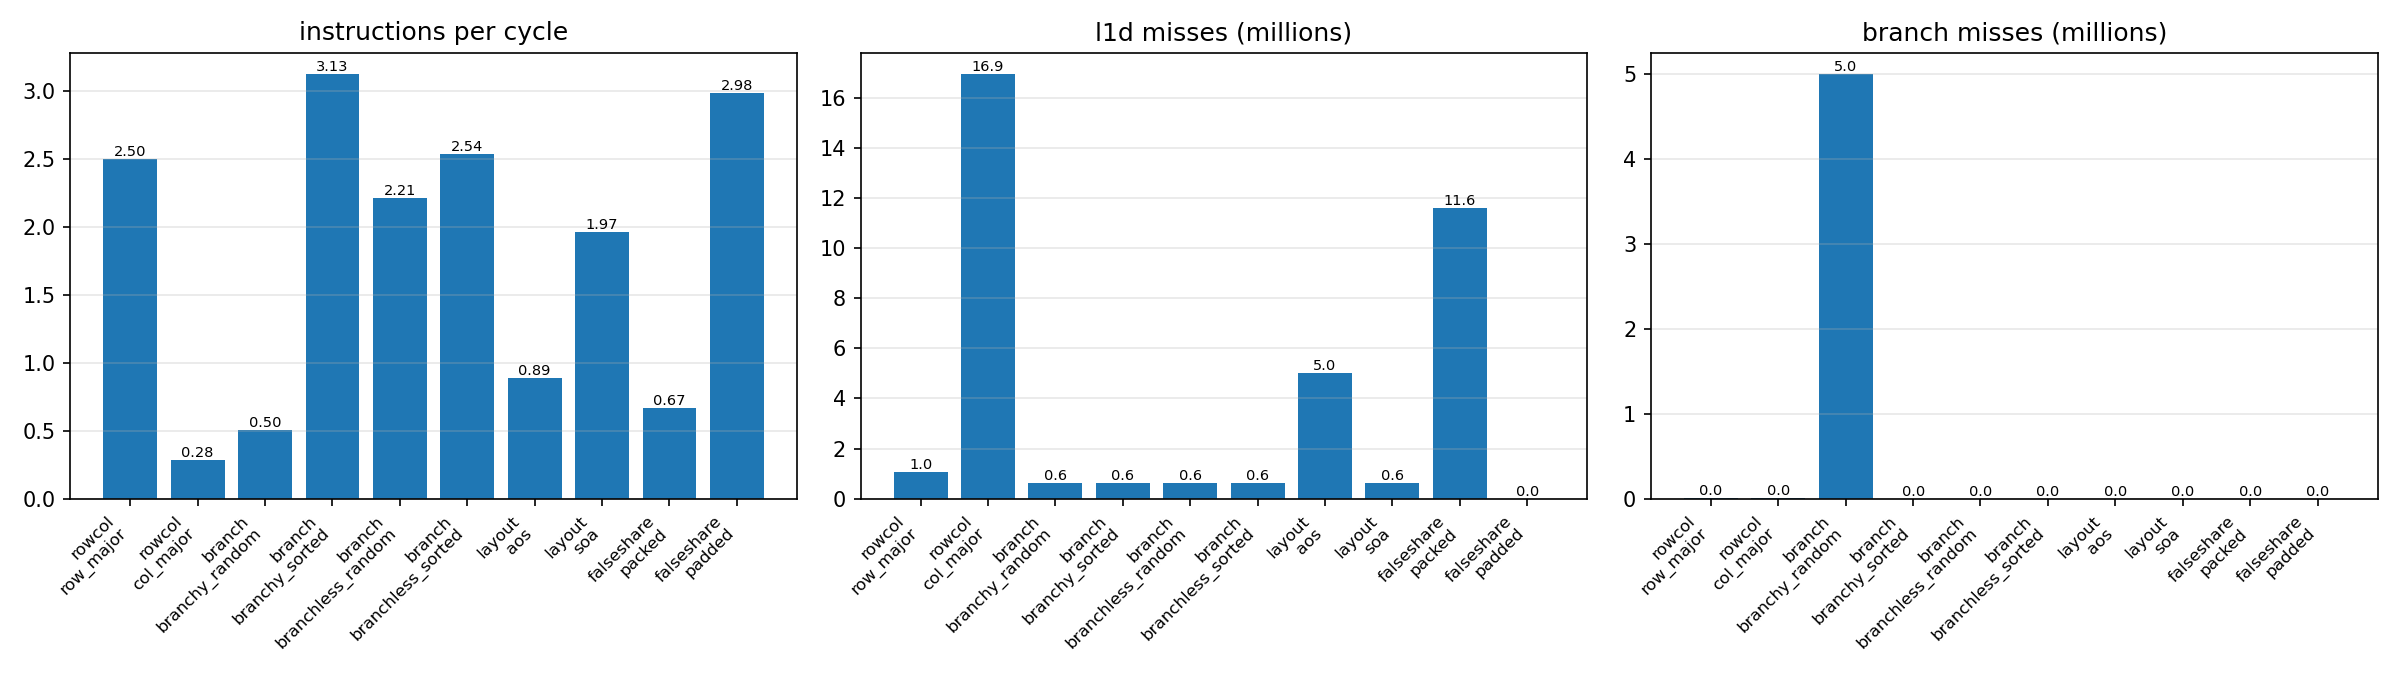
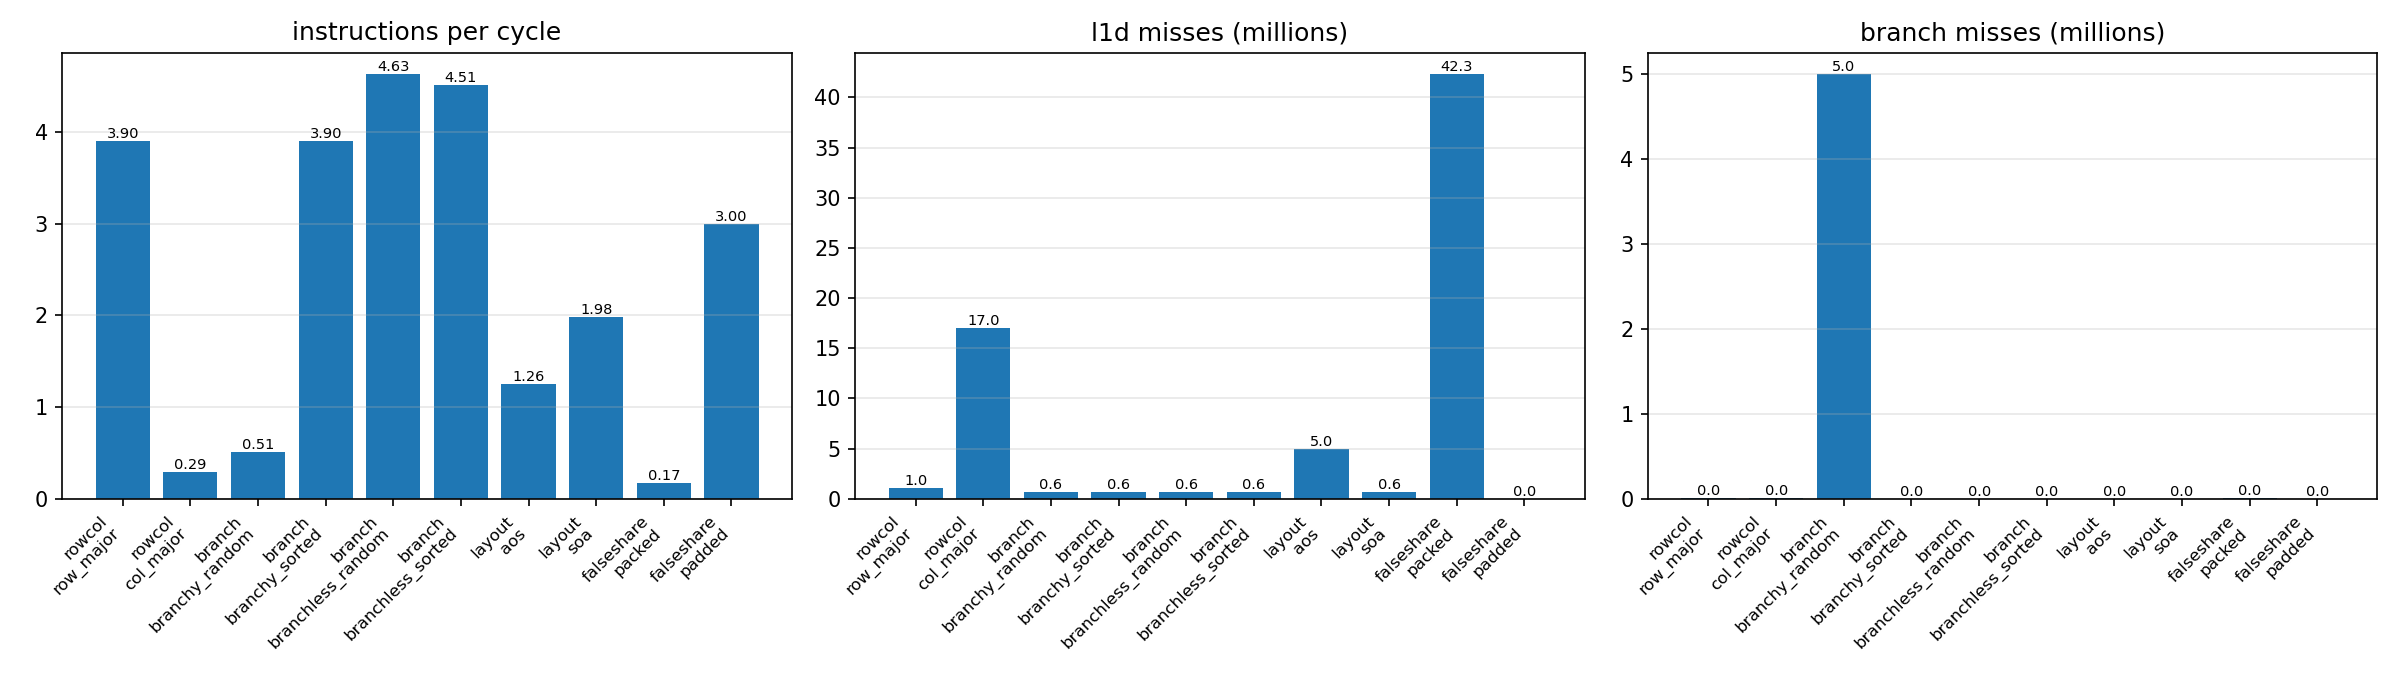
final results with ram at 3600, compiler experiment writeup

diff --git a/include/cpuprobe/perf_counters.hpp b/include/cpuprobe/perf_counters.hpp
@@ -9,7 +9,7 @@ namespace cpuprobe {
 enum class Event {
     Cycles,
     Instructions,
-    CacheMisses,  // last level cache misses, maps to different raw events on amd vs intel
+    CacheMisses,  // last level cache misses, maps to different raw events depending on the cpu vendor
     BranchMisses,
     L1DMisses,  // l1 data cache read misses
 };

diff --git a/README.md b/README.md
@@ -3,10 +3,12 @@
 
 A C++ tool that measures how your CPU's memory hierarchy actually behaves (cache sizes, latencies, miss rates, IPC) using microbenchmarks and Linux hardware performance counters, with Python automation to sweep configs and plot results.
 
+I built this because I wanted to see the stuff from my computer architecture classes on my own machine instead of just reading about it. Turns out you can, and the hardware counters agree with the textbook almost exactly.
+
 ![latency staircase](results/wsl/latency.png)
 
 ## Key findings
-Measured on an AMD Ryzen 9 5900X (Zen 3), Ubuntu 24.04 under WSL2, DDR4 at 2400 MT/s, gcc 13 `-O2`.
+Measured on a Ryzen 9 5900X (Zen 3), Ubuntu 24.04 under WSL2, DDR4-3600 CL17, gcc 13 `-O2`.
 
 **Memory latency** (pointer chase, one core, median of 7 runs)
 
@@ -14,27 +16,29 @@ Measured on an AMD Ryzen 9 5900X (Zen 3), Ubuntu 24.04 under WSL2, DDR4 at 2400 
 |---|---|---|
 | L1d | 32K | 0.75 ns |
 | L2 | 512K | 2.3 ns |
-| L3 | 32M per CCD | 8 to 11 ns (1M to 4M) |
-| DRAM | | ~105 ns |
+| L3 | 32M per CCD | 8 to 10 ns (1M to 4M) |
+| DRAM | | ~86 ns |
 
-The steps land right where `/sys` says each cache ends. Latency creeps up between 8M and 16M before the real L3 edge, which lines up with Zen 3's L2 TLB running out (2048 entries x 4K pages = 8M of coverage). Past that point every load also pays for a page walk.
+The steps land right where `/sys` says each cache ends. Latency creeps up between 8M and 16M before the real L3 edge, which lines up with Zen 3's L2 TLB running out (2048 entries x 4K pages = 8M of coverage). Past that point every load also pays for a page walk. The L3 edge is at 32M even though the chip has 64MB total, because the 5900X is two chiplets with 32MB each and a pinned thread only sees its own.
+
+**RAM speed matters.** My RAM had been running at 2400 MT/s because the memory profile (DOCP) was never turned on in the BIOS. Turning it on dropped DRAM latency from ~108 ns to ~86 ns, about 20% lower, without touching anything else. The old run is in the git history.
 
 **Good vs bad code, with hardware counters**
 
 | Kernel | Slowdown | What the counters show |
 |---|---|---|
-| Column-major vs row-major matrix sum (64MB) | **22.7x** | L1d misses go from 1.05M to 16.9M, IPC drops from 2.99 to 0.28 |
-| Branchy loop on random vs sorted data | **6.9x** | Branch misses go from 47 to 5,000,005, IPC drops from 3.73 to 0.51 |
-| Array of structs vs struct of arrays | **1.8x** | L1d misses go from 625K to 5.0M |
-| False sharing: two cores writing to one cache line vs separate lines | **11.7x** | IPC drops from 2.90 to 0.22, 32M lines bounced between cores |
+| Column-major vs row-major matrix sum (64MB) | **28.8x** | L1d misses go from 1.05M to 17.0M, IPC drops from 3.90 to 0.29 |
+| Branchy loop on random vs sorted data | **7.6x** | Branch misses go from 23 to 5,000,127, IPC drops from 3.90 to 0.51 |
+| Array of structs vs struct of arrays | **1.6x** | L1d misses go from 625K to 5.0M |
+| False sharing: two cores writing to one cache line vs separate lines | **14.7x** | IPC drops from 3.00 to 0.17, 42M lines bounced between cores |
 
 ![kernel timings](results/wsl/kernels_time.png)
 ![kernel counters](results/wsl/kernels_counters.png)
 
-**The counters matched first-principles predictions.** Before running, each miss count can be worked out on paper:
-- Row-major reads 64MB in 64-byte lines, so 64MB / 64B = 1,048,576 L1d misses. Measured: 1,048,973.
-- Column-major jumps 16KB per step, so every one of the 16.7M loads should miss. Measured: 16.9M.
-- 10M random bytes against a `>= 128` check means the predictor is right half the time, so ~5M misses. Measured: 5,000,005.
+**The counters matched what I worked out on paper.** Before running, each miss count can be predicted:
+- Row-major reads 64MB in 64-byte lines, so 64MB / 64B = 1,048,576 L1d misses. Measured: 1,048,915.
+- Column-major jumps 16KB per step, so every one of the 16.7M loads should miss. Measured: 17.0M.
+- 10M random bytes against a `>= 128` check means the predictor is right about half the time, so ~5M misses. Measured: 5,000,127.
 - AoS drags 320MB through the cache (5M lines) to use 40MB; SoA reads just the 40MB (625K lines). Measured: 5.0M vs 625K.
 
 ## How it works
@@ -42,8 +46,18 @@ The steps land right where `/sys` says each cache ends. Latency creeps up betwee
 - **Sattolo's algorithm.** A shuffle that always produces one single cycle, so the chase visits every node instead of getting stuck in a small loop that stays in cache.
 - **One node per 64-byte cache line**, so every hop touches a new line.
 - **`perf_event_open`.** An RAII `PerfGroup` class opens a group of hardware counters (cycles, instructions, L1d misses, cache misses, branch misses) with the first one as group leader, so they all start and stop at the same instant. If the kernel has to multiplex counters, the values get scaled by `time_enabled / time_running` and flagged.
-- **Keeping the comparisons honest.** At `-O2`, gcc and clang quietly turn the branchy loop into a branchless `cmov`, which made the first version of that benchmark show no difference at all. An empty `asm volatile("")` inside the branch keeps it a real branch. Every good/bad pair also has a unit test proving both versions compute the same result.
+- **Keeping the comparisons honest.** Every good/bad pair has a unit test proving both versions compute the same result, and the branch benchmark needed an extra trick (see below).
 - **False sharing.** Each thread pins itself to its own physical core and opens its own counter group, since perf counters only see the thread that opened them. The results get summed afterwards.
+
+## The compiler is part of the experiment
+The branch benchmark is supposed to show that a branch on random data is slow because the predictor keeps guessing wrong. Without any special handling, it doesn't show that at all:
+
+| | branchy random | branchy sorted | branch misses (random) |
+|---|---|---|---|
+| plain `if` | 1.98 ms | 1.99 ms | 52 |
+| `if` + `asm volatile("")` | 24.06 ms | 3.16 ms | 5,000,127 |
+
+Disassembling the plain version with `objdump` shows why: gcc at `-O2` replaced the `if` with `cmovg` (a conditional move), so there was no branch left to mispredict. Putting an empty `asm volatile("")` inside the branch stops the compiler from doing that, and the 7.6x gap shows up. Good reminder to check the assembly before trusting a benchmark.
 
 ## Methodology
 - Release build (`-O2`), never benchmarked with sanitizers on
@@ -76,19 +90,15 @@ If counters fail with a permission error, run `sudo sysctl kernel.perf_event_par
 - CI on every push: gcc and clang, Debug build with AddressSanitizer + UndefinedBehaviorSanitizer, all tests, a smoke run of every command, and a `clang-format` check
 
 ## Limitations
-- These numbers come from WSL2, which is a Hyper-V VM. Counters work there on this machine, but page walks are nested (guest + host page tables), so TLB-heavy results are likely a bit worse than bare metal.
-- RAM was running at 2400 MT/s with DOCP off; the kit is rated for 3600, so the DRAM numbers are pessimistic.
-- Generic perf events map to different raw events on AMD and Intel. On Zen 3 the generic `cache-misses` event doesn't cleanly mean "L3 misses", so treat the `llc_misses` column as approximate. The L1d and branch counts line up with predictions almost exactly.
+- These numbers come from WSL2, which is a Hyper-V VM. Counters work there on this machine, but page walks are nested (guest + host page tables), so TLB-heavy results are probably a bit worse than bare metal.
+- Generic perf events map to different raw events on different CPU vendors. On Zen 3 the generic `cache-misses` event doesn't cleanly mean "L3 misses", so treat the `llc_misses` column as approximate. The L1d and branch counts line up with predictions almost exactly.
 - No frequency control under WSL (no `cpupower`), so boost clocks can add some noise.
 
 ## What I learned
-The biggest takeaway was that the compiler is part of the experiment. My first branch benchmark showed sorted and random data running at the same speed, which made no sense until I looked at the assembly and saw `-O2` had already removed the branch. I also learned to predict a counter value before measuring it. When 5,000,005 branch misses showed up after I'd expected 5M, I knew the tool was measuring what I thought it was.
+The compiler is part of the experiment. My branch benchmark first showed sorted and random data running at the same speed, which made no sense until the assembly showed `-O2` had already removed the branch. I also got into the habit of predicting a counter value before measuring it. When 5,000,127 branch misses showed up after I'd expected about 5M, I knew the tool was measuring what I thought it was. And sometimes the biggest speedup is a BIOS setting you forgot to turn on.
 
-## Roadmap
-- [x] Pointer-chase latency benchmark, cache info, plots
-- [x] Hardware counters via `perf_event_open`
-- [x] Comparison kernels: row vs column, branchy vs branchless, AoS vs SoA, false sharing
-- [x] CI on gcc and clang with sanitizers
-- [ ] Native Linux run with DOCP on, compared against WSL2
-- [ ] Core-to-core latency heatmap (same CCD vs across CCDs)
-- [ ] Huge pages to show the TLB effect shrinking
+## Ideas for later
+- Native Linux run compared against WSL2
+- Core-to-core latency heatmap (same CCD vs across CCDs)
+- Huge pages to show the TLB effect shrinking
+- `-O0` / `-O2` / `-O3` / `-march=native` comparison
